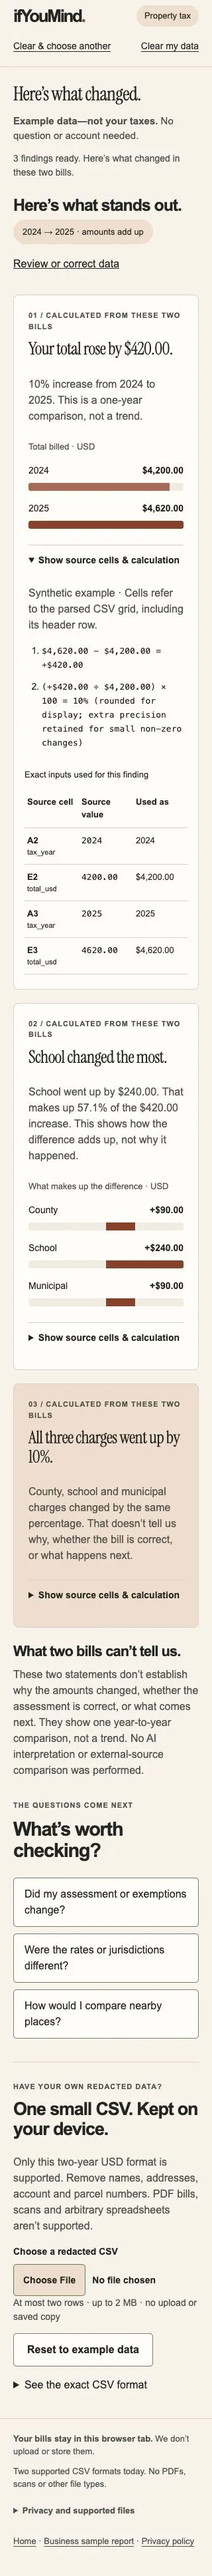
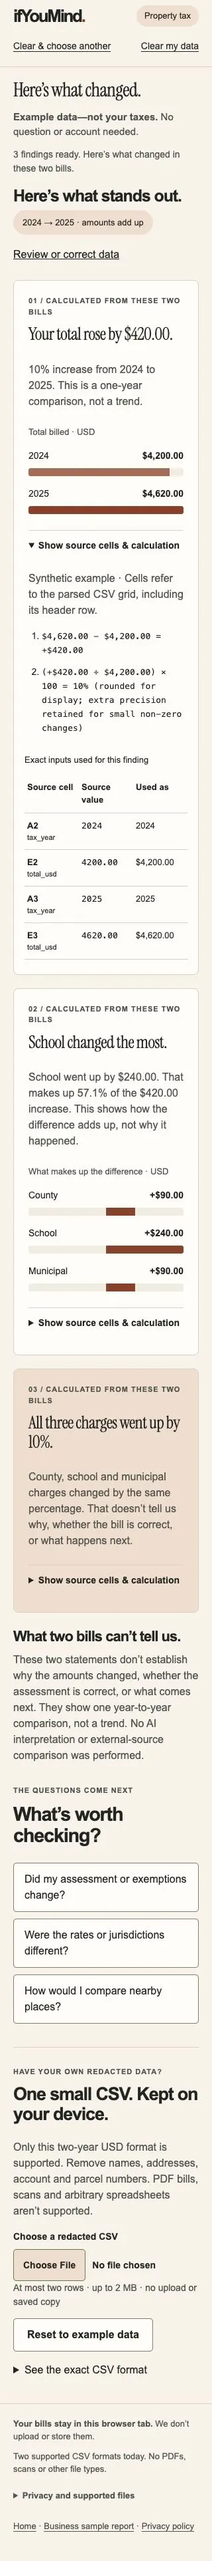
Keep Discovery findings above the narrow-screen fold

Changed region(s): [[0.0625, 0.0312, 0.9062, 0.966], [0.8125, 0.9348, 0.8438, 0.966]]

diff --git a/src/app/discovery/tax-discovery-mobile.component.scss b/src/app/discovery/tax-discovery-mobile.component.scss
@@ -1,3 +1,8 @@
 @media(max-width:700px){.top{padding:18px 20px;gap:8px;flex-wrap:wrap}.preview{font-size:11px}.top .quiet-button{width:100%;text-align:left;padding-left:0}.intro{grid-template-columns:1fr;padding:32px 0 14px;gap:24px}.intro h1{font-size:43px}.intro.compact h1{font-size:36px}.intro.compact .lead{font-size:15px;margin-bottom:0}.discoveries>.section-title{gap:8px}.discoveries>.section-title .quiet-button{padding-left:0}.lead{font-size:17px}main{padding:0 20px}.teaser{transform:none;padding:18px}.teaser p{font-size:20px}.paper{margin-top:14px;padding:12px 16px}.paper strong{font-size:26px}.small-label{font-size:11px}.section-title{align-items:start;flex-direction:column;gap:12px}.section-title h2{font-size:25px}.checked{white-space:normal}.cards,.csv,.edit-grid{grid-template-columns:1fr}.finding{padding:22px}.finding h3{font-size:26px}.finding.pattern{grid-column:auto}.question-buttons{display:grid}.question-buttons button{width:100%}.editor{padding:18px}.csv{gap:16px;padding-top:28px}.source-table{margin:0 -6px}.source-table th,.source-table td{padding:9px 4px}footer{padding:24px 20px}.actions{flex-direction:column;align-items:stretch}.primary,.secondary{justify-content:center}.privacy{font-size:13px}.eyebrow{font-size:11px}}@media(prefers-reduced-motion:reduce){*{scroll-behavior:auto!important}}
 @media(max-width:700px){.top{display:grid;grid-template-columns:1fr auto;gap:3px 12px}.top .brand{grid-column:1;grid-row:1}.top .preview{grid-column:1;grid-row:2;margin-left:0}.top .quiet-button{grid-column:2;grid-row:1 / span 2;width:auto;align-self:center;padding:8px}.intro.compact h1{font-size:clamp(29px,8vw,36px)}}
 
+
+@media (max-width: 360px) {
+  .intro.compact { padding-top: 18px; }
+  .discoveries > .section-title { margin-block: 16px; }
+}

diff --git a/docs/design/wow-3-2/REVIEW.md b/docs/design/wow-3-2/REVIEW.md
@@ -75,7 +75,9 @@ Select a viewport to open the full matched pair. The baseline password-recovery 
 | Saved decision → full report → pricing → Checkout | The browser suite exercises existing $79/$39 link contracts with intercepted Stripe destinations, simulated checkout return states, paid-report copy and print controls. |
 | Return → saved report → account | Browser checks exercise report reopening, tenant isolation and account/profile behavior. Screenshots show a linked subscription and scheduled cancellation using an intercepted commercial status. Commerce and entitlement behavior is covered by the existing CI emulator suites. |
 
-Production and demo builds, the production bundle guard, Discovery isolation, touched Angular lint, 138 fast web tests, 72 Functions unit tests and 69 integrated Hosting cases passed locally. The initial Hosting run identified duplicate font registrations due to global style inlining. The final run passed after moving the shared font-face declarations into the app shell stylesheet. The capture sweep found two pre-existing horizontal overflows, 30 px in the 320 px recovery fixture and 80 px in Ask at 390 px. The matched candidate captures had zero measured page overflow. App tests cover four widths, keyboard focus, reduced motion and accessible controls. Hosting tests also cover forced colors, text-spacing and WCAG contrast. Build logs retain style budget warnings below the hard limit. The public Discovery island's estimated transfer size is 66.23 kB versus 66.11 kB at the baseline, excluding the cached local font files. Field performance was not measured.
+Production and demo builds, the production bundle guard, Discovery isolation, touched Angular lint, 138 fast web tests, 72 Functions unit tests and 69 integrated Hosting cases passed locally. The initial Hosting run identified duplicate font registrations due to global style inlining. The final run passed after moving the shared font-face declarations into the app shell stylesheet. The capture sweep found two pre-existing horizontal overflows, 30 px in the 320 px recovery fixture and 80 px in Ask at 390 px. The matched candidate captures had zero measured page overflow. App tests cover four widths, keyboard focus, reduced motion and accessible controls. Hosting tests also cover forced colors, text-spacing and WCAG contrast. Build logs retain style budget warnings below the hard limit. The production app's estimated initial transfer is 182.31 kB versus 182.03 kB at the baseline. The Discovery island is 66.27 kB versus 66.11 kB, excluding the shared local font files. Field performance was not measured.
+
+The initial [authenticated CI run](https://github.com/alwat83/ifyoumind/actions/runs/43357798888) found both standalone Discovery headings ending 0.69 px below the 320 × 568 first screen on Linux Chromium. The narrow layout now reduces the space before findings. The existing assertion was retained, and all 12 local narrow standalone cases passed. The [draft checks](https://github.com/alwat83/ifyoumind/pull/92/checks) record the full workflow at the updated head. The local authenticated browser suite completed 118 passes before this Discovery-only spacing correction.
 
 ## Remaining review
 

diff --git a/docs/agent-handoff/DEVELOPMENT_LOG.md b/docs/agent-handoff/DEVELOPMENT_LOG.md
@@ -529,8 +529,8 @@ Exact final commit/PR and independently executed CI status recorded in GitHub/co
 
 ## 2026-11-12 — Wow 3.2 cross-surface visual consistency
 
-**Provider/agent:** OpenAI / Codex. **Branch:** `codex/wow-3-2-visual-consistency`, forked at the approved [PR #91](https://github.com/alwat83/ifyoumind/pull/91) head `165b5bbe6f2d9f2c3ceb424ffc289ce7bcf4080c`. See the draft for the candidate SHA, exact-head CI and Issue #89/Notion coordination.
+**Provider/agent:** OpenAI / Codex. **Branch:** `codex/wow-3-2-visual-consistency`, forked at the approved [PR #91](https://github.com/alwat83/ifyoumind/pull/91) head `165b5bbe6f2d9f2c3ceb424ffc289ce7bcf4080c`. See [draft PR #92](https://github.com/alwat83/ifyoumind/pull/92) for the candidate SHA and exact-head CI. The [Issue #89 update](https://github.com/alwat83/ifyoumind/issues/89#issuecomment-6842747221) and the [Notion hub](https://app.notion.com/p/3eb02474659c81ecba55cc4eed184a71) link the evidence.
 
 **Work:** audited the rendered app first. Shared the approved editorial type, colors, spacing and interactive styles across Discovery, auth, Business, dashboard and saved reports, account, commerce, My Data, Ask, Advanced and the legal/guide pages. Fixed existing layout overflow in Ask and in the long-email reset state. [Matrix, screenshot pairs and verification](../design/wow-3-2/REVIEW.md).
 
-**Verification:** local production and demo builds, 138 web and 72 Functions tests, 69 integrated Hosting cases, production bundle and Discovery isolation guards, and targeted Angular lint passed. The initial integrated run caught duplicate font-face registration and the capture sweep found the existing narrow recovery overflow. Both were corrected. Existing remote targets, billing, entitlements, authentication rules, report generation and privacy stay in place. No production action. Browser and emulator results establish journey coverage only. Next action is founder comparison of the 390 px and 1440 px journeys, then a separate release decision.
+**Verification:** local production and demo builds, 138 web and 72 Functions tests, 69 integrated Hosting cases, production bundle and Discovery isolation guards, and targeted Angular lint passed. The initial integrated run caught duplicate font-face registration and the capture sweep found the existing narrow recovery overflow. Both were corrected. Local authenticated browser tests passed 118/118. CI then exposed a 0.69 px overshoot of the 320 px first-screen test in both standalone categories. Narrow spacing was tightened and the 12 narrow local cases passed with the original assertion. Existing remote targets, billing, entitlements, authentication rules, report generation and privacy stay in place. No production action. Browser and emulator results establish journey coverage only. Next action is founder comparison of the 390 px and 1440 px journeys, then a separate release decision.

diff --git a/docs/agent-handoff/CURRENT_STATUS.md b/docs/agent-handoff/CURRENT_STATUS.md
@@ -2,7 +2,7 @@
 
 ## November 12, 2026 — Wow 3.2 visual consistency
 
-**Draft review candidate.** `codex/wow-3-2-visual-consistency` starts at founder-approved [PR #91](https://github.com/alwat83/ifyoumind/pull/91) head `165b5bbe6f2d9f2c3ceb424ffc289ce7bcf4080c`. [Visual matrix, matched screenshots and verification](../design/wow-3-2/REVIEW.md). The shared presentation spans Discovery, auth, dashboard and history, Business reports, checkout, account, data and legal pages. Ask and narrow password recovery no longer overflow in the tested fixtures. The draft records exact-head checks. PR #88 remains the production baseline. Founder review and separate release authorization remain pending.
+**[Draft PR #92](https://github.com/alwat83/ifyoumind/pull/92).** `codex/wow-3-2-visual-consistency` starts at founder-approved [PR #91](https://github.com/alwat83/ifyoumind/pull/91) head `165b5bbe6f2d9f2c3ceb424ffc289ce7bcf4080c`. [Visual matrix, matched screenshots and verification](../design/wow-3-2/REVIEW.md). The shared presentation spans Discovery, auth, dashboard and history, Business reports, checkout, account, data and legal pages. Ask and narrow password recovery no longer overflow in the tested fixtures. The [draft checks](https://github.com/alwat83/ifyoumind/pull/92/checks) record CI at the candidate head. [Issue #89](https://github.com/alwat83/ifyoumind/issues/89#issuecomment-6842747221) and the [Notion hub](https://app.notion.com/p/3eb02474659c81ecba55cc4eed184a71) carry the linked handoff. PR #88 remains the production baseline. Founder review and separate release authorization remain pending.
 
 ## November 12, 2026 — Wow 3.1 cross-surface review
 
